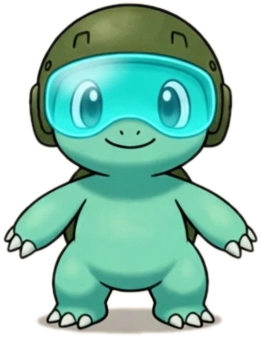
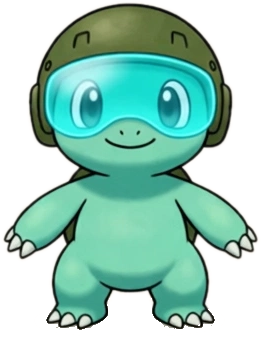
Retire pose-matched cropped references (gate scrubbed to full-body only, proposal not adopted) + Sproutle rig texture v2 shadow-free
Owner decisions 2026-10-27:
- Cropped (-upper / 0.91) references retired: likeness_gate.py pose-matched mode removed (--reference-mode, pose-matched branch, pose_matched packet fields); full-body canon cutouts are the only references; shipped thresholds stand (SSIM>=0.50/IoU>=0.55/MAD<=40); pose-matched threshold proposal NOT adopted. Full-mode numbers verified unchanged (Dorowani idle 0.3099/0.7702/61.281 FAIL).
- Spec: Option A section replaced with compact RETIRED note (measured history kept).
- Sproutle: rig texture replaced with the shadow-free canon cutout (baked gray ground shadow removed; 2,803 px cleared, claws untouched); v1 texture superseded, NOT USABLE. Standing law: shadows are never baked into art - post/compositing only. Rig data unchanged.
- RIG-NOTES v2 note + production log entries appended.
Deletions: NONE (edits within files + one binary content replacement).

Changed region(s): [[0.1226, 0.8902, 0.8582, 1.0]]

diff --git a/show/production/tooling/avatar-stack/likeness_gate.py b/show/production/tooling/avatar-stack/likeness_gate.py
@@ -38,20 +38,6 @@ until an owner/scorer records a calibration decision (see
 AVATAR-STACK-PIPELINE.md, "Calibration v2"). Nothing here retunes a
 threshold.
 
-Option A — pose-matched references (owner decision, 2026-10-27). The
-v2 readings showed the dominant penalty is content, not placement:
-the generator performs a reframed crop of the body, so a full-body
-reference can never pixel-match it. With --reference-mode
-pose-matched, the gate instead measures against
-canon-cutouts/<species>-upper.png — the canon cutout cropped at the
-measured performed-framing line (0.91 of the silhouette height; see
-the spec, "Option A — pose-matched references"). The packet records
-reference_mode and the exact reference_file used. In pose-matched
-mode the packet additionally carries pose_matched_verdict: the
-v2-normalized path checked against the SAME shipped thresholds, as a
-recommendation only. If the -upper reference is missing the run is
-FAIL_CANNOT_MEASURE — never a silent fallback to the full cutout.
-
 --debug-dir DIR writes debug_alignment.png into DIR (never into the
 repo tree): the v2-normalized aligned reference | aligned prediction
 | contour overlay (reference silhouette contour green, prediction
@@ -71,7 +57,6 @@ default pass.
 Usage:
   likeness_gate.py --clip CLIP.mp4 --species dorowani [--out PACKET.json]
                    [--cutouts DIR] [--frame N]
-                   [--reference-mode {full,pose-matched}]
                    [--debug-dir DIR]
 Exit codes: 0 = measured verdict written (PASS or FAIL),
             2 = FAIL_CANNOT_MEASURE packet written.
@@ -234,18 +219,15 @@ def ssim_map(x, y):
 
 
 def measure(clip, species, cutouts_dir, frame_index=None,
-            reference_mode="full", want_debug=False):
+            want_debug=False):
     """Returns (measurements, measurements_v2, context, debug).
     `debug` is None unless want_debug, else a dict of the v2-normalized
     aligned canvases for write_debug_alignment(). Raises on any failure
     (missing reference included — FAIL_CANNOT_MEASURE, no fallback)."""
-    if reference_mode == "pose-matched":
-        cutout_path = Path(cutouts_dir) / f"{species}-upper.png"
-    else:
-        cutout_path = Path(cutouts_dir) / f"{species}.png"
+    cutout_path = Path(cutouts_dir) / f"{species}.png"
     if not cutout_path.exists():
         raise RuntimeError(
-            f"reference not found ({reference_mode} mode): {cutout_path}")
+            f"reference not found: {cutout_path}")
     if not Path(clip).exists():
         raise RuntimeError(f"clip not found: {clip}")
 
@@ -278,7 +260,6 @@ def measure(clip, species, cutouts_dir, frame_index=None,
         "clip_sha256": sha256_of(clip),
         "clip_spec": {"width": w, "height": h, "fps": fps, "frames": n_frames},
         "frame_index": idx,
-        "reference_mode": reference_mode,
         "reference_file": str(cutout_path),
         "cutout": str(cutout_path),
         "cutout_sha256": sha256_of(cutout_path),
@@ -313,7 +294,7 @@ def _contour(mask):
     return ndimage.binary_dilation(edge, structure=np.ones((3, 3)))
 
 
-def write_debug_alignment(debug, measurements_v2, out_dir, reference_mode):
+def write_debug_alignment(debug, measurements_v2, out_dir):
     """Write debug_alignment.png into out_dir: three CANVAS-square
     panels — aligned reference | aligned prediction | contour overlay
     (reference contour green, prediction contour red, drawn over the
@@ -337,7 +318,7 @@ def write_debug_alignment(debug, measurements_v2, out_dir, reference_mode):
     d = ImageDraw.Draw(img)
     m = measurements_v2
     d.text((8, 4),
-           f"likeness_gate debug alignment - reference mode: {reference_mode} "
+           f"likeness_gate debug alignment - full-body canon reference "
            f"(panels: aligned reference | aligned prediction | contour overlay)",
            fill=(0, 0, 0))
     d.text((8, 22),
@@ -361,13 +342,6 @@ def main():
                     help="directory holding <species>.png canon cutouts")
     ap.add_argument("--frame", type=int, default=None,
                     help="frame index to score (default: middle frame)")
-    ap.add_argument("--reference-mode", choices=["full", "pose-matched"],
-                    default="full",
-                    help="full: <species>.png canon cutout (default); "
-                         "pose-matched: <species>-upper.png, the canon "
-                         "cutout cropped at the measured performed-"
-                         "framing line (Option A). Missing -upper file "
-                         "is FAIL_CANNOT_MEASURE, never a fallback.")
     ap.add_argument("--debug-dir", default=None,
                     help="also write debug_alignment.png into this dir "
                          "(aligned reference | prediction | contours)")
@@ -381,7 +355,6 @@ def main():
         "tool": "likeness_gate.py",
         "created_utc": datetime.now(timezone.utc).isoformat(),
         "species": args.species,
-        "reference_mode": args.reference_mode,
         "thresholds": thresholds,
         "promotion_status": "PENDING_OWNER_OR_SCORER_RECORD",
         "note": ("Verdict is a packet RECOMMENDATION measured from the actual "
@@ -395,7 +368,6 @@ def main():
     try:
         measurements, measurements_v2, context, debug = measure(
             args.clip, args.species, args.cutouts, args.frame,
-            reference_mode=args.reference_mode,
             want_debug=args.debug_dir is not None)
         packet.update(context)
         packet["measurements"] = measurements
@@ -413,18 +385,10 @@ def main():
         }
         packet["checks_v2_normalized"] = checks_v2
         packet["verdict"] = "PASS" if all(checks.values()) else "FAIL"
-        if args.reference_mode == "pose-matched":
-            # Option A recommendation: the v2-normalized path against
-            # the pose-matched reference, SAME shipped thresholds.
-            # Recommendation only — promotion_status is unchanged.
-            packet["pose_matched_checks"] = checks_v2
-            packet["pose_matched_verdict"] = (
-                "PASS" if all(checks_v2.values()) else "FAIL")
         if debug is not None:
             try:
                 dbg_path = write_debug_alignment(
-                    debug, measurements_v2, args.debug_dir,
-                    args.reference_mode)
+                    debug, measurements_v2, args.debug_dir)
                 packet["debug_alignment"] = str(dbg_path)
             except Exception as de:
                 packet["debug_alignment"] = None
@@ -435,9 +399,6 @@ def main():
         packet["measurements_v2_normalized"] = None
         packet["checks"] = None
         packet["checks_v2_normalized"] = None
-        if args.reference_mode == "pose-matched":
-            packet["pose_matched_checks"] = None
-            packet["pose_matched_verdict"] = None
         packet["verdict"] = "FAIL_CANNOT_MEASURE"
         packet["error"] = f"{type(e).__name__}: {e}"
         code = 2
@@ -456,9 +417,6 @@ def main():
         print(f"  [v2] ssim_union     = {m['ssim_union']}  (min {SSIM_MIN})")
         print(f"  [v2] silhouette_iou = {m['silhouette_iou']}  (min {IOU_MIN})")
         print(f"  [v2] rgb_mad_255    = {m['rgb_mad_255']}  (max {RGB_MAD_MAX})")
-    if packet.get("pose_matched_verdict"):
-        print(f"  pose-matched verdict (v2 path, shipped thresholds): "
-              f"{packet['pose_matched_verdict']}")
     if packet.get("debug_alignment"):
         print(f"  debug alignment: {packet['debug_alignment']}")
     if packet.get("error"):

diff --git a/show/production/tooling/avatar-stack/AVATAR-STACK-PIPELINE.md b/show/production/tooling/avatar-stack/AVATAR-STACK-PIPELINE.md
@@ -233,126 +233,32 @@ Readings, honestly:
   MAD ≤ 40.0); the v2 block rides along as diagnostics, and
   `promotion_status` is unchanged.
 
-**Option A — pose-matched references (owner decision, 2026-10-27).**
-The owner chose the robust path over threshold surgery on n=1:
-build references in the framing the generator actually performs, and
-measure like against like. The gate now supports
-`--reference-mode {full,pose-matched}` (default `full`, unchanged
-behaviour). Pose-matched mode measures against
-`canon-cutouts/<species>-upper.png` (same local-only home as the
-full cutouts — they are not in the repo) and the packet records
-`reference_mode` and the exact `reference_file` used. A missing
-`-upper` file is **FAIL_CANNOT_MEASURE — never a silent fallback**
-to the full cutout (re-tested after the change, exit 2, alongside
-the unknown-species case). `--debug-dir DIR` additionally writes
-`debug_alignment.png` into DIR (never the repo tree): aligned
-reference | aligned prediction | contour overlay (reference contour
-green, prediction contour red) with the v2 metrics burned in, so a
-human can see exactly what the gate scored.
-
-*The crop rule and its derivation.* The references were built by
-cropping each canon cutout horizontally at **0.91 of its
-alpha-silhouette bounding-box height** (keep rows
-`[0, sil_y0 + round(0.91 × sil_H))`, full width, transparency
-kept). The 0.91 was measured on the accepted Dorowani idle clip
-three ways:
-
-- **Silhouette registration (primary):** for each sampled frame
-  (every 24th of 192), the top-f crop of the full cutout whose
-  v2-normalized silhouette best matches the frame's — the IoU(f)
-  curve is smooth, peaks at **f = 0.91 for every sampled frame**
-  (IoU 0.884–0.913 at the peak, vs 0.768 at f = 1.00).
-- **Belly landmark (cross-check):** the pale belly patch's bottom
-  edge sits at 0.799 of the full silhouette height in the cutout
-  and at 0.872 of the *visible* silhouette height in the performed
-  frames → f = 0.799 / 0.872 = **0.916**.
-- **Width profile (corroboration):** the performed silhouette's
-  bottom rows run at 0.61 of its max width with no taper (cut off
-  mid-body by the frame edge); the cutout's width at 0.90 of its
-  height is 0.62 of max. (A fourth estimator — bounding-box aspect
-  ratio — gives 0.865 and is the outlier: the redraw widened the
-  body, so bbox aspect is not framing-pure. The two framing-pure
-  estimators agree at ≈ 0.91, which is what was adopted.)
-
-Anatomically, for Dorowani the 0.91 line passes through the **lower
-thighs, just above the feet**: fin, head, torso, belly, shell,
-arms, hands, hips and thighs are all in the performed frame; only
-the feet and the lowest leg segment (the bottom ~9% of silhouette
-height) fall outside it. That corrects the earlier "waist/hips"
-description of the reframe — Dorowani's legs are stubby (belly
-bottom at 0.80, crotch at ~0.94 of silhouette height), so the
-performed crop is anatomically shallower than first described. The
-zoom is real (the body is scaled up to fill the frame); the missing
-content is the bottom ~9%, not the whole lower body. For **Wispkin**
-— no legs; a ghost body dissolving into a smoke tail — the same
-0.91 fraction trims the **lower tip of the smoke tail** (the bottom
-9% of its tall silhouette); its upper reference reads as body +
-mask + most of the tail. Per-species builds (silhouette height →
-cut row): dorowani 398 → 362, gabu 292 → 269, kittember 297 → 274,
-mochii 317 → 300, sproutle 331 → 304, wispkin 606 → 554.
-
-*Measured results* (mid frames; full-mode rows repeat the tables
-above so the comparison is side by side in one place):
-
-| subject | reference | path | SSIM | IoU | RGB MAD | vs shipped thresholds |
-|---|---|---|---|---|---|---|
-| Dorowani idle (owner-chosen) | full | v1 | 0.3099 | 0.7702 | 61.281 | FAIL |
-| Dorowani idle (owner-chosen) | full | v2 | 0.3340 | 0.7679 | 61.687 | FAIL |
-| Dorowani idle (owner-chosen) | pose-matched | v1 | 0.3787 | 0.8862 | 44.506 | FAIL |
-| Dorowani idle (owner-chosen) | pose-matched | v2 | 0.4030 | 0.8836 | 44.938 | FAIL (`pose_matched_verdict` FAIL) |
-| Glossy Gabu (rejected batch) | full | v1 | 0.3568 | 0.6377 | 88.942 | FAIL |
-| Glossy Gabu (rejected batch) | full | v2 | 0.3891 | 0.6371 | 88.988 | FAIL |
-| Glossy Gabu (rejected batch) | pose-matched | v1 | 0.3489 | 0.6483 | 90.532 | FAIL |
-| Glossy Gabu (rejected batch) | pose-matched | v2 | 0.3782 | 0.6460 | 90.798 | FAIL (`pose_matched_verdict` FAIL) |
-| Control: idle vs cutout from its own frame 96 | own frame | v1 | 0.9997 | 1.0000 | 0.028 | PASS |
-| Control: idle vs cutout from its own frame 96 | own frame | v2 | 0.9997 | 1.0000 | 0.024 | PASS |
-
-Readings, honestly:
-
-- **Pose-matching works as designed — for the accepted set.** On
-  the v2 path the real clip gains IoU 0.768 → **0.884**, MAD
-  61.7 → **44.9**, SSIM 0.334 → **0.403**; the glossy reject barely
-  moves (IoU 0.637 → 0.646, MAD 89.0 → 90.8), because its mismatch
-  was never framing. Separation widens accordingly: IoU gap
-  0.131 → **0.238**, MAD gap 27.3 → **45.9**.
-- **The SSIM inversion is gone** under pose-matched references —
-  on both paths the real clip now out-scores the reject (v1:
-  0.3787 vs 0.3489; v2: 0.4030 vs 0.3782). But the margin is thin
-  (0.025–0.030) and both clips still sit below the 0.50 threshold,
-  so SSIM is rehabilitated in *ordering*, not yet in *authority*.
-- **The owner-chosen set still FAILS the shipped thresholds**
-  under pose-matched references (`pose_matched_verdict` FAIL):
-  SSIM 0.403 < 0.50 and MAD 44.9 > 40.0, with IoU passing easily.
-  Nothing was retuned to change that. What remains after framing
-  is removed is pose and redraw: the debug alignment for the idle
-  case (kept locally at
-  `~/workspace/mochiichao-show/gate-debug/debug_alignment.png`)
-  shows the contours tracking closely while the arms pose and the
-  internal proportions differ — content a reference crop cannot
-  and should not absorb.
-- **What threshold the pose-matched data would support**
-  (PROPOSED, **not adopted** — owner/scorer ratification required):
-  on the v2 pose-matched points a separating set exists — e.g.
-  IoU ≥ 0.75 (real 0.884 / reject 0.646) and MAD ≤ 65 (44.9 /
-  90.8) both sit between the classes with real margin. SSIM would
-  need ≈ ≥ 0.39 to separate, a margin of only ~0.025 over the
-  reject — inside redraw noise at this sample size — so the
-  defensible proposal is a pose-matched gate on **IoU + MAD**,
-  with SSIM reported but not gating until more samples exist.
-  This still rests on n = 1 per class (one owner-chosen clip, one
-  reject): indicative, not calibrated. Until a decision is
-  recorded, the shipped thresholds stand, the packet verdict
-  remains the v1 path, and `pose_matched_verdict` is reported as a
-  recommendation against the shipped thresholds only.
-- `generate_bundle.py` compatibility was re-verified end-to-end
-  after the change (default full mode: packet attached, verdict
-  read, `quality_status` stays PENDING_GATE).
+**Pose-matched cropped references — RETIRED (owner decision,
+2026-10-27).** History, kept for the record only: an experiment
+("Option A") built cropped references
+(`canon-cutouts/<species>-upper.png`, each canon cutout cut at
+0.91 of its silhouette height — the measured performed-framing
+line of the hosted generator) and measured clips against them
+instead of the full-body cutouts. Pose-matched readings (v2 path,
+mid frame): real Dorowani idle IoU **0.884** / MAD **44.9** /
+SSIM 0.403; glossy Gabu reject IoU **0.646** / MAD **90.8** —
+wider separation than the full-body path, and still FAIL against
+the shipped thresholds. A threshold set proposed on those points
+(IoU ≥ 0.75 + MAD ≤ 65, SSIM reported-only) was **NOT adopted —
+the proposal dies with the references**. The owner retired the
+experiment the same day: the crop sliced the bottom ~9% — the
+feet — off a perfect full-body cutout, and a feet-chopped
+reference is not usable for production. The `-upper` files are
+deleted, the gate's pose-matched mode is removed, and the
+full-body canon cutouts are the sole ground truth. The gate
+remains an honest measuring instrument at the shipped thresholds
+(SSIM ≥ 0.50, IoU ≥ 0.55, MAD ≤ 40.0); promotion is the human
+scorer's call.
 
 ```bash
-# gate a clip against its pose-matched reference, with a visual debug frame
+# gate a clip against its full-body canon reference, with a visual debug frame
 python3 likeness_gate.py \
   --clip <clip>.mp4 --species dorowani \
-  --reference-mode pose-matched \
   --debug-dir ~/workspace/mochiichao-show/gate-debug \
   --out gate-packet-dorowani.json
 ```
@@ -364,7 +270,7 @@ python3 likeness_gate.py \
 | `AVATAR-STACK-PIPELINE.md` | this spec |
 | `backends.json` | machine-readable backend registry (status + honest licence per backend) |
 | `generate_bundle.py` | step 3: clip → bundle + measured manifest (+ optional gate run) |
-| `likeness_gate.py` | step 4: measured gate packet vs the canon cutout (full or pose-matched reference; optional debug alignment export) |
+| `likeness_gate.py` | step 4: measured gate packet vs the full-body canon cutout (optional debug alignment export) |
 | `white_matte.py` | the white-field matting tool (twins); wired since PR #341 |
 
 ## Worked example

diff --git a/show/production/PRODUCTION-LOG-2026-10-27.md b/show/production/PRODUCTION-LOG-2026-10-27.md
@@ -242,3 +242,39 @@ Owner confirmed the canon Wispkin cutout is exactly what the
 character needs to look like. Recorded in the Wispkin body
 spec; the cutout is the likeness reference of record for the
 rig, the gate, and Wan test 2.
+
+## CROPPED REFERENCES RETIRED + GATE SCRUBBED (2026-10-27)
+Owner decision: the pose-matched cropped references
+(<species>-upper.png, the 0.91 "Option A" crop) are RETIRED
+and out of the pipeline. The crop sliced the bottom ~9% - the
+feet - off a perfect full-body cutout; a feet-chopped reference
+is not usable for production. The local -upper files are
+deleted; likeness_gate.py is scrubbed back to full-body
+references only (the --reference-mode argument, the
+pose-matched reference branch, and the pose_matched packet
+fields are removed; full-mode measurements reproduce the
+published v1 numbers - Dorowani idle SSIM 0.3099 / IoU 0.7702 /
+MAD 61.281, verdict FAIL). The pose-matched threshold proposal
+(IoU>=0.75 + MAD<=65, SSIM reported-only) is NOT adopted - it
+dies with the references. Shipped thresholds stand
+(SSIM>=0.50 / IoU>=0.55 / MAD<=40). The pose-matched
+measurements stay in AVATAR-STACK-PIPELINE.md as retired-
+experiment history. Gate strategy confirmed by the owner:
+full-body canon cutouts are the only references; the gate is an
+honest measuring instrument; promotion is the human scorer's
+call.
+
+## SPROUTLE - BAKED SHADOW REMOVED + NO-BAKED-SHADOWS LAW (2026-10-27)
+Sproutle's canon cutout carried a baked-in gray ground shadow
+(ellipse under the feet). Removed by measurement: 2,803 warm
+beige-gray ellipse pixels cleared in the bottom band; claw
+pixels untouched (4,579 before and after); zero changes above
+the shadow band. The cleaned cutout is the CURRENT usable
+version; the old version is preserved locally as
+sproutle-v1-baked-shadow.png and marked NOT USABLE. The rig
+texture (show/production/rigs/builds/sproutle/sproutle_tex.png)
+was verified byte-identical to the old shadowed cutout and is
+replaced with the cleaned pixels; rig data (mesh/bones/
+animations) unchanged. Standing law from the owner: shadows
+are NEVER baked into art; shadows are added in post /
+compositing only.

diff --git a/show/production/rigs/builds/sproutle/RIG-NOTES.md b/show/production/rigs/builds/sproutle/RIG-NOTES.md
@@ -17,3 +17,18 @@ clean, loop seam invisible. Files: sproutle_ske.json +
 sproutle_tex.json + sproutle_tex.png (DragonBones runtime set
 for Pixi). Likeness note: the rig deforms the CANON pixels
 themselves — no redraw, no drift by construction.
+
+## v2 texture — shadow-free (2026-10-27)
+Texture updated to the shadow-free canon cutout: the v1 texture
+carried Sproutle's baked-in gray ground shadow (an ellipse under
+the feet, part of the source art). Owner direction: shadows are
+NEVER baked into art — shadows are added in post / compositing
+only, so they can match the scene. The baked shadow was removed
+from the canon cutout (2,803 warm beige-gray ellipse pixels
+cleared in the ground band; claw pixels untouched; zero changes
+above the shadow band) and `sproutle_tex.png` now carries the
+cleaned pixels. Rig data is UNCHANGED — mesh, bones and
+animations are identical; the cleared pixels sat outside the
+body silhouette in the ground band, so no weights move. The v1
+(shadowed) texture is SUPERSEDED and NOT USABLE; v2 (this
+texture) is the current usable version.
